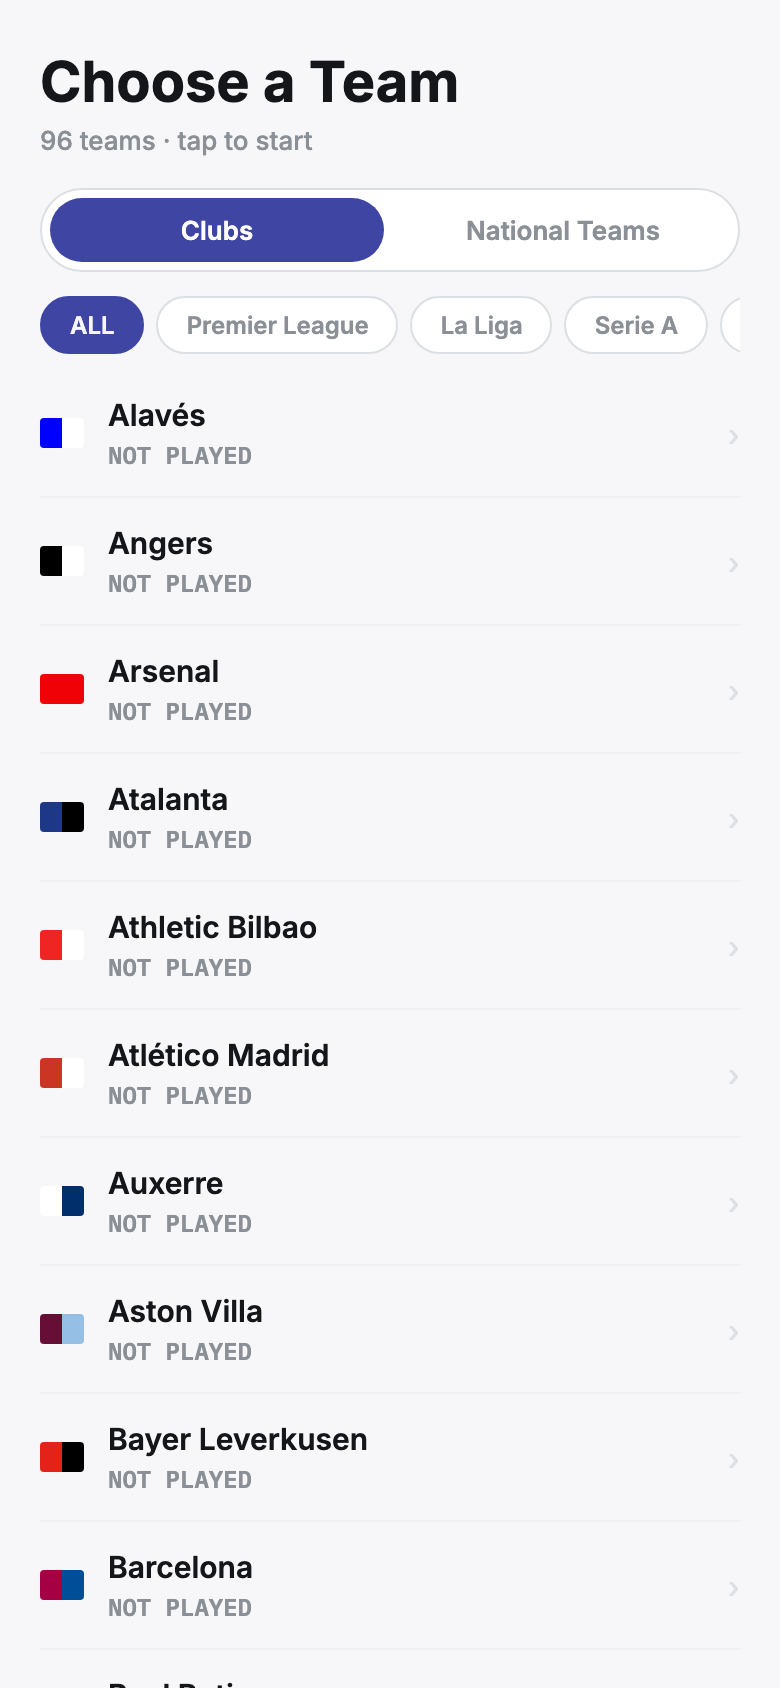
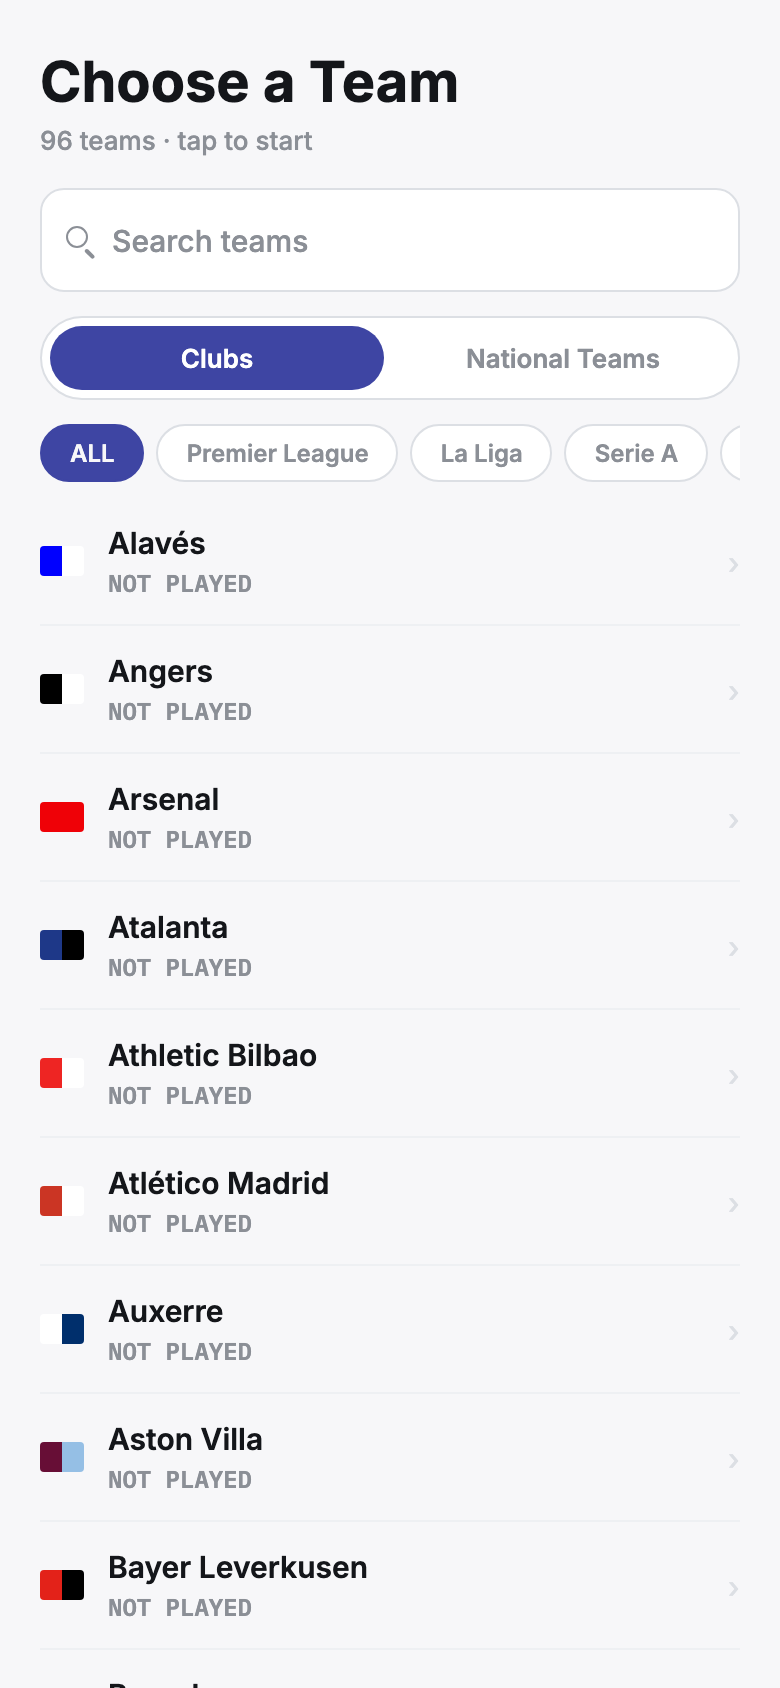
feat: add search/filter to team picker
Real-time, case-insensitive name filter above the Clubs/National Teams
tabs, composing with the existing tab and league-pill filters rather
than replacing them. Adds an empty state for zero-match combinations.

Amends CLAUDE.md's "no text input / no keyboard" hard constraint with
a narrowly-scoped exception for this one field — narrowing a list of
teams isn't answering a quiz question, which is what that rule exists
to prevent.

Closes #22

diff --git a/components/SearchField.tsx b/components/SearchField.tsx
@@ -1,0 +1,127 @@
+import { Pressable, StyleSheet, TextInput, View } from 'react-native';
+import { iconSize, radii, sizes, spacing, typography } from '@/theme/tokens';
+import { useThemeColors } from '@/theme/useTheme';
+
+// Magnifying-glass geometry, in a square box `iconSize.searchGlyph` wide.
+// Built from plain Views rather than a 🔍/Unicode glyph, matching LockGlyph
+// and VerdictGlyph — icons here never depend on a font carrying the symbol.
+const LENS = { size: 11, borderWidth: 1.5 };
+const HANDLE = { width: 6, height: 1.5, radius: 1 };
+
+function SearchGlyph() {
+  const colors = useThemeColors();
+  const box = iconSize.searchGlyph;
+  const styles = StyleSheet.create({
+    root: { width: box, height: box },
+    lens: {
+      position: 'absolute',
+      top: 0,
+      left: 0,
+      width: LENS.size,
+      height: LENS.size,
+      borderRadius: LENS.size / 2,
+      borderWidth: LENS.borderWidth,
+      borderColor: colors.textMuted,
+    },
+    handle: {
+      position: 'absolute',
+      bottom: 0,
+      right: 0,
+      width: HANDLE.width,
+      height: HANDLE.height,
+      borderRadius: HANDLE.radius,
+      backgroundColor: colors.textMuted,
+      transform: [{ rotate: '45deg' }],
+    },
+  });
+
+  return (
+    <View
+      style={styles.root}
+      accessibilityElementsHidden
+      importantForAccessibility="no-hide-descendants"
+    >
+      <View style={styles.lens} />
+      <View style={styles.handle} />
+    </View>
+  );
+}
+
+// The clear button's "×", drawn as two crossed bars rather than the U+2715
+// dingbat — same reasoning as SearchGlyph above.
+function ClearGlyph() {
+  const colors = useThemeColors();
+  const box = iconSize.clearGlyph;
+  const styles = StyleSheet.create({
+    root: { width: box, height: box },
+    bar: {
+      position: 'absolute',
+      top: box / 2 - 0.75,
+      left: 0,
+      width: box,
+      height: 1.5,
+      borderRadius: 1,
+      backgroundColor: colors.textMuted,
+    },
+    barA: { transform: [{ rotate: '45deg' }] },
+    barB: { transform: [{ rotate: '-45deg' }] },
+  });
+
+  return (
+    <View style={styles.root}>
+      <View style={[styles.bar, styles.barA]} />
+      <View style={[styles.bar, styles.barB]} />
+    </View>
+  );
+}
+
+interface SearchFieldProps {
+  value: string;
+  onChange: (text: string) => void;
+  onClear: () => void;
+}
+
+export function SearchField({ value, onChange, onClear }: SearchFieldProps) {
+  const colors = useThemeColors();
+  const styles = StyleSheet.create({
+    root: {
+      flexDirection: 'row',
+      alignItems: 'center',
+      gap: spacing.xs,
+      height: sizes.controlHeight,
+      paddingHorizontal: spacing.sm,
+      backgroundColor: colors.surface,
+      borderWidth: 1,
+      borderColor: colors.border,
+      borderRadius: radii.md,
+    },
+    input: { flex: 1, padding: 0, ...typography.secondary, color: colors.textPrimary },
+  });
+
+  return (
+    <View style={styles.root}>
+      <SearchGlyph />
+      <TextInput
+        value={value}
+        onChangeText={onChange}
+        placeholder="Search teams"
+        placeholderTextColor={colors.textMuted}
+        autoCorrect={false}
+        autoCapitalize="none"
+        returnKeyType="search"
+        accessibilityLabel="Search teams"
+        style={styles.input}
+      />
+      {value.length > 0 && (
+        <Pressable
+          onPress={onClear}
+          accessibilityRole="button"
+          accessibilityLabel="Clear search"
+          hitSlop={spacing.xs}
+        >
+          <ClearGlyph />
+        </Pressable>
+      )}
+    </View>
+  );
+}

diff --git a/app/team-picker.tsx b/app/team-picker.tsx
@@ -3,6 +3,7 @@ import { useMemo, useState } from 'react';
 import { FlatList, ScrollView, StyleSheet, Text, View } from 'react-native';
 import { useSafeAreaInsets } from 'react-native-safe-area-context';
 import { FilterPill } from '@/components/FilterPill';
+import { SearchField } from '@/components/SearchField';
 import { SegmentedControl } from '@/components/SegmentedControl';
 import { TeamRow } from '@/components/TeamRow';
 import type { LeagueFilter } from '@/lib/pickerView';
@@ -25,10 +26,14 @@ export default function TeamPicker() {
   const bestScores = useProgress((s) => s.bestScores);
   const [filter, setFilter] = useState<'club' | 'nation'>('club');
   const [league, setLeague] = useState<LeagueFilter>('ALL');
+  const [query, setQuery] = useState('');
 
   const squads = listSquads();
   const leagues = useMemo(() => leagueFilters(squads), [squads]);
-  const filtered = useMemo(() => visibleSquads(squads, filter, league), [squads, filter, league]);
+  const filtered = useMemo(
+    () => visibleSquads(squads, filter, league, query),
+    [squads, filter, league, query],
+  );
 
   const styles = StyleSheet.create({
     root: { flex: 1, backgroundColor: colors.background, paddingHorizontal: spacing.lg },
@@ -45,11 +50,17 @@ export default function TeamPicker() {
     // flatten the pills and clip their labels rather than overflow.
     leagueRow: { alignItems: 'center', gap: spacing.xs - 2, paddingRight: spacing.lg },
     list: { paddingTop: spacing.xs },
+    search: { marginBottom: spacing.sm },
+    empty: { paddingTop: spacing.xxl, alignItems: 'center' },
+    emptyTitle: { ...typography.secondary, color: colors.textSecondary, marginBottom: spacing.xxs },
+    emptySubtitle: { ...typography.secondarySmall, color: colors.textMuted },
   });
 
   // Switching tabs drops the league back to ALL, so tapping "Clubs" always
   // shows every club rather than silently re-applying a league picked before
-  // a detour through the nations tab, while its pill row was hidden.
+  // a detour through the nations tab, while its pill row was hidden. The
+  // search query deliberately survives the switch instead — a name typed on
+  // one tab may be worth checking on the other.
   const changeKind = (key: string) => {
     setFilter(key as 'club' | 'nation');
     setLeague('ALL');
@@ -61,6 +72,9 @@ export default function TeamPicker() {
       <Text style={styles.subtitle}>
         {filtered.length} {filtered.length === 1 ? 'team' : 'teams'} · tap to start
       </Text>
+      <View style={styles.search}>
+        <SearchField value={query} onChange={setQuery} onClear={() => setQuery('')} />
+      </View>
       <SegmentedControl segments={SEGMENTS} value={filter} onChange={changeKind} />
 
       {filter === 'club' && (
@@ -85,6 +99,14 @@ export default function TeamPicker() {
         data={filtered}
         keyExtractor={(item) => item.id}
         contentContainerStyle={styles.list}
+        ListEmptyComponent={
+          <View style={styles.empty}>
+            <Text style={styles.emptyTitle}>No teams found</Text>
+            {query.trim().length > 0 && (
+              <Text style={styles.emptySubtitle}>No results for &quot;{query.trim()}&quot;</Text>
+            )}
+          </View>
+        }
         renderItem={({ item }) => (
           <TeamRow
             name={item.name}

diff --git a/lib/pickerView.test.ts b/lib/pickerView.test.ts
@@ -113,4 +113,36 @@ describe('visibleSquads', () => {
   it('returns an empty list for a league with no clubs', () => {
     expect(visibleSquads(MANIFEST, 'club', 'bundesliga')).toEqual([]);
   });
+
+  it('filters by a case-insensitive substring of the name', () => {
+    expect(visibleSquads(MANIFEST, 'club', 'ALL', 'AR').map((s) => s.id)).toEqual(['ars', 'bar']);
+  });
+
+  it('trims surrounding whitespace from the query', () => {
+    expect(visibleSquads(MANIFEST, 'club', 'ALL', '  ar  ').map((s) => s.id)).toEqual([
+      'ars',
+      'bar',
+    ]);
+  });
+
+  it('treats an empty query as no filter', () => {
+    expect(visibleSquads(MANIFEST, 'club', 'ALL', '').map((s) => s.id)).toEqual([
+      'ars',
+      'bar',
+      'rma',
+      'juv',
+    ]);
+  });
+
+  it('composes the query with the league filter', () => {
+    expect(visibleSquads(MANIFEST, 'club', 'la-liga', 'ba').map((s) => s.id)).toEqual(['bar']);
+  });
+
+  it('filters nations by name too', () => {
+    expect(visibleSquads(MANIFEST, 'nation', 'ALL', 'ar').map((s) => s.id)).toEqual(['arg']);
+  });
+
+  it('returns an empty list when nothing matches the query', () => {
+    expect(visibleSquads(MANIFEST, 'club', 'ALL', 'zzz')).toEqual([]);
+  });
 });

diff --git a/lib/pickerView.ts b/lib/pickerView.ts
@@ -68,13 +68,20 @@ export function leagueFilters(squads: SquadManifestEntry[]): LeagueFilter[] {
 }
 
 /** The rows the picker shows. `kind` always applies; `league` narrows clubs
- *  only — nation entries carry no league, so it is ignored on that tab. */
+ *  only — nation entries carry no league, so it is ignored on that tab.
+ *  `query` narrows further by a case-insensitive substring of the name,
+ *  composing with `kind` and `league` rather than replacing them. */
 export function visibleSquads(
   squads: SquadManifestEntry[],
   kind: 'club' | 'nation',
   league: LeagueFilter,
+  query = '',
 ): SquadManifestEntry[] {
+  const q = query.trim().toLowerCase();
   return squads.filter(
-    (s) => s.kind === kind && (kind !== 'club' || league === 'ALL' || s.league === league),
+    (s) =>
+      s.kind === kind &&
+      (kind !== 'club' || league === 'ALL' || s.league === league) &&
+      (q === '' || s.name.toLowerCase().includes(q)),
   );
 }

diff --git a/theme/tokens.ts b/theme/tokens.ts
@@ -462,6 +462,8 @@ export const iconSize = {
   markSmall: 13, // VerdictGlyph's smaller size, for AnswerOption's incorrect-picked mark
   chevron: 16, // TeamRow / DifficultyRow disclosure chevron
   chevronLarge: 18, // Home's continue-card chevron
+  searchGlyph: 15, // SearchField's magnifying-glass icon
+  clearGlyph: 10, // SearchField's clear (×) button, drawn from two crossed bars
   // The locked-badge padlock scales with its own badge (40/48/56, escalating
   // by level) rather than sitting at one fixed size regardless of the ring
   // around it — 48 * 0.46 ≈ 22, 56 * 0.46 ≈ 26.

diff --git a/CLAUDE.md b/CLAUDE.md
@@ -97,10 +97,18 @@ Product-defining. Flag a conflict rather than working around any of these.
    OS flag-emoji font, and Windows ships none, so the Playwright capture behind
    `npm run shots` would render "AR". Crests, badges, logos, and shield shapes
    remain banned forever.
-3. **No text input anywhere. No keyboard.** Every answer is a tap — option cards
-   and chip selectors are the entire input vocabulary. This is deliberate:
-   typing player names on a phone is the worst possible version of this app. Do
-   not add free-text answering or fuzzy name matching.
+3. **No text input in the quiz. No keyboard for answering.** Every quiz answer
+   is a tap — option cards and chip selectors are the entire input vocabulary
+   there. This is deliberate: typing player names on a phone is the worst
+   possible version of this app. Do not add free-text answering or fuzzy name
+   matching to questions.
+
+   The one exception is the **team picker's search field** (filtering the
+   club/nation list as you type): narrowing a list is not answering a
+   question, and typing a few letters is the normal way to find one team
+   among ~20. Keep the exception scoped to that field — do not add free-text
+   input anywhere else in the app.
+
 4. **No auth, no accounts, no analytics SDKs, no network calls.** v0 is fully
    offline.
 5. **Never hardcode a colour, spacing value, or font size.** Everything comes
